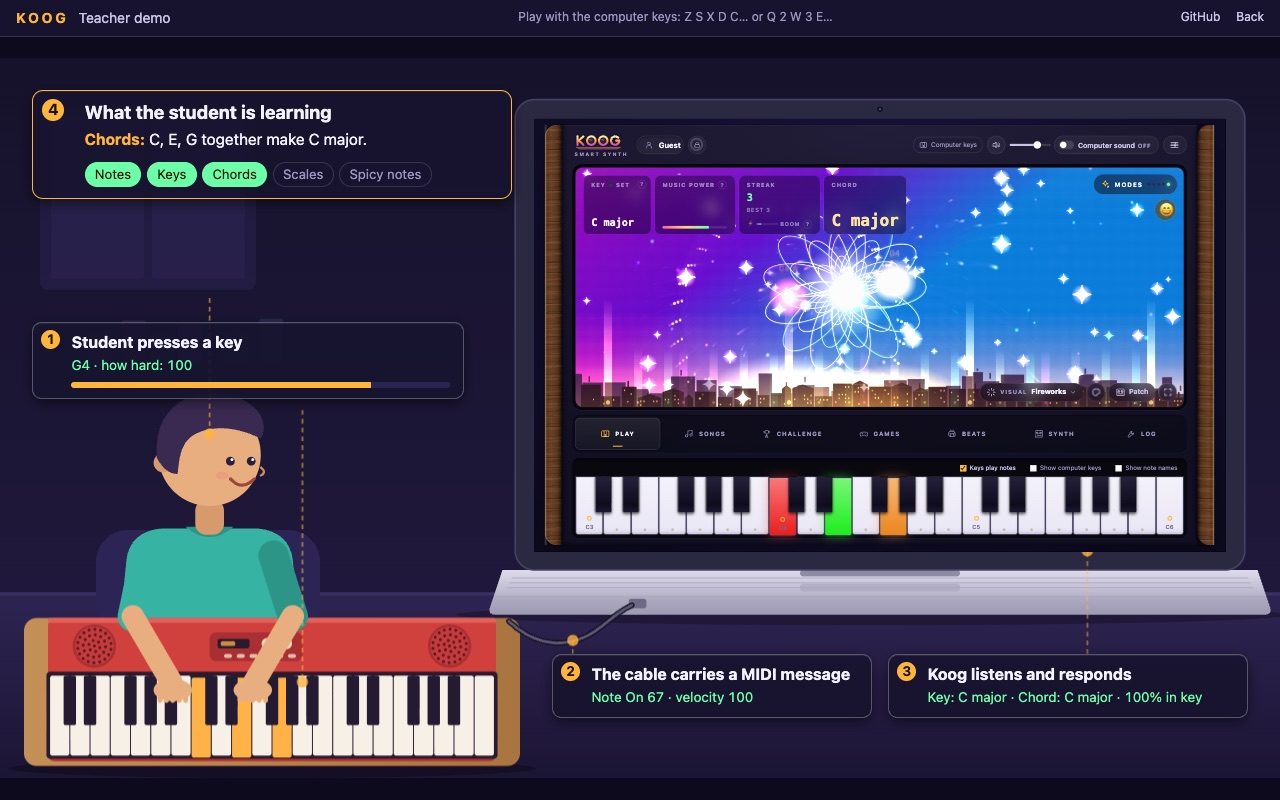
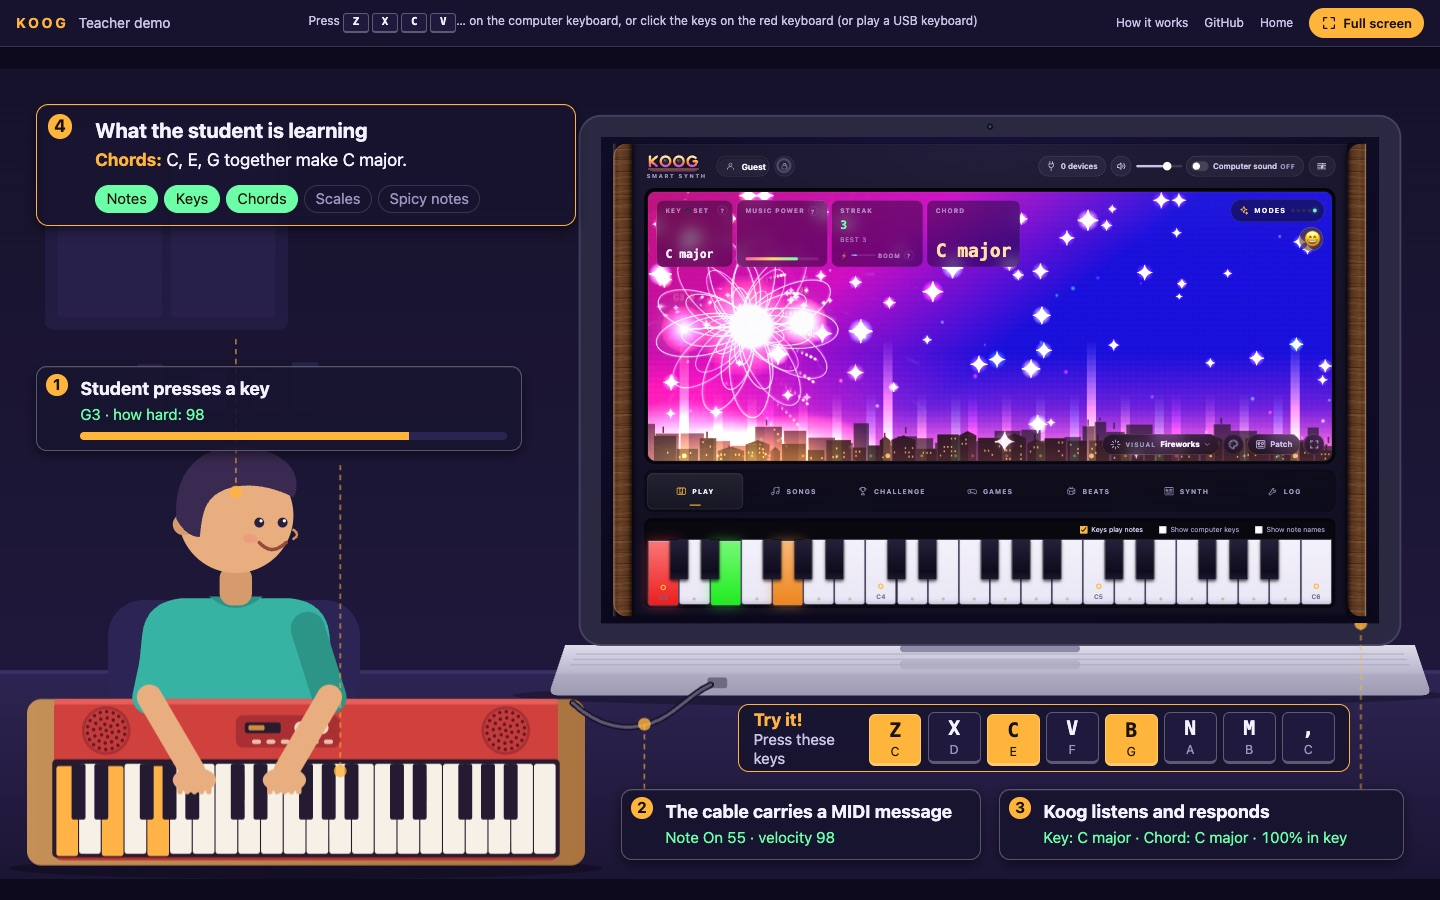
Teacher demo: clickable drawn keyboard, "press these keys" strip, start card with full screen
- Clicking (or sliding across) the white and black keys on the drawn keyboard
  plays them in the live Koog (bridge accepts koog:play). The student's hands
  and the overlay let clicks through.
- A "Try it! Press these keys" strip under the laptop shows Z X C V B N M , as
  C D E F G A B C, and lights each key cap while it sounds.
- A start card explains the three ways in (computer keys, clicking the drawing,
  reading the labels) with Start full screen / Start in this window; the click
  also turns on sound. The top bar has a Full screen button and How it works.
- Landing cards now have clear buttons: Start playing / Open the teacher demo.

Claude-Session: https://claude.ai/code/session_01VAs8VNy4sBx3Y33LLJLrLR

diff --git a/src/teacher/Teacher.tsx b/src/teacher/Teacher.tsx
@@ -2,6 +2,7 @@ import { useCallback, useEffect, useMemo, useRef, useState } from 'react'
 import { Stage, SCREEN, CABLE_D, ANCHORS } from './Stage'
 import { GITHUB_URL, isWebDemo } from '../web/webDemo'
 import { PC_NAMES } from '../music/theory'
+import { Icon } from '../ui/Icon'
 
 type Lit = 'in' | 'out' | 'tonic'
 interface LastNote { note: number; name: string; velocity: number }
@@ -16,10 +17,15 @@ const reduced = typeof matchMedia !== 'undefined' && matchMedia('(prefers-reduce
 // Where each callout card sits (viewBox units) and which edge point its leader line starts from.
 const CARDS = {
   1: { x: 40, y: 330, w: 540 },
-  2: { x: 690, y: 745, w: 400 },
-  3: { x: 1110, y: 745, w: 450 },
+  2: { x: 690, y: 800, w: 400 },
+  3: { x: 1110, y: 800, w: 450 },
   4: { x: 40, y: 40, w: 600 },
 } as const
+// The "press these keys" strip under the laptop: the bottom letter row plays C D E F G A B C (octave 3).
+const STRIP = { x: 820, y: 706, w: 680, h: 76 }
+const CAPS: [string, string, number][] = [['Z', 'C', 48], ['X', 'D', 50], ['C', 'E', 52], ['V', 'F', 53], ['B', 'G', 55], ['N', 'A', 57], ['M', 'B', 59], [',', 'C', 60]]
+
+const isFull = () => !!document.fullscreenElement
 
 export function Teacher() {
   const [held, setHeld] = useState<ReadonlySet<number>>(new Set())
@@ -29,7 +35,8 @@ export function Teacher() {
   const [seen, setSeen] = useState<ReadonlySet<Concept>>(new Set())
   const [dots, setDots] = useState<number[]>([])
   const [pulse, setPulse] = useState(false)
-  const [sound, setSound] = useState(false)
+  const [intro, setIntro] = useState(true)
+  const [full, setFull] = useState(isFull)
   const [u, setU] = useState(0.6) // px per viewBox unit
   const wrap = useRef<HTMLDivElement>(null)
   const frame = useRef<HTMLIFrameElement>(null)
@@ -38,6 +45,20 @@ export function Teacher() {
   const lastJ = useRef<Lit | null>(null)
 
   const see = useCallback((c: Concept) => setSeen((s) => (s.has(c) ? s : new Set(s).add(c))), [])
+
+  useEffect(() => {
+    const on = () => setFull(isFull())
+    document.addEventListener('fullscreenchange', on)
+    return () => document.removeEventListener('fullscreenchange', on)
+  }, [])
+  const toFrame = (msg: unknown) => frame.current?.contentWindow?.postMessage(msg, location.origin)
+  const toggleFull = () => { if (isFull()) void document.exitFullscreen?.(); else void document.documentElement.requestFullscreen?.().catch(() => {}) }
+  const start = (fs: boolean) => {
+    setIntro(false)
+    toFrame({ type: 'koog:unlock' }) // this click counts as the "turn on sound" gesture
+    if (fs && !isFull()) void document.documentElement.requestFullscreen?.().catch(() => {})
+  }
+  const playKey = useCallback((note: number, on: boolean) => toFrame({ type: 'koog:play', note, on, velocity: 96 }), [])
 
   // contain-fit 16:9 stage
   useEffect(() => {
@@ -64,7 +85,6 @@ export function Teacher() {
       const d = e.data
       if (!d || typeof d.type !== 'string') return
       if (d.type === 'koog:note') {
-        setSound(true)
         setHeld((h) => { const n = new Set(h); if (d.on) n.add(d.note); else n.delete(d.note); return n })
         if (d.on) {
           setLast({ note: d.note, name: d.name, velocity: d.velocity })
@@ -125,23 +145,23 @@ export function Teacher() {
     <div className="t-page">
       <header className="t-bar">
         <div className="t-brand"><b>KOOG</b><span>Teacher demo</span></div>
-        <div className="t-hint">{isWebDemo()
-          ? 'Play with the computer keys: Z S X D C… or Q 2 W 3 E…'
-          : 'Play with a USB keyboard, or the computer keys: Z S X D C… or Q 2 W 3 E…'}</div>
+        <div className="t-hint">Press <kbd>Z</kbd> <kbd>X</kbd> <kbd>C</kbd> <kbd>V</kbd>… on the computer keyboard, or click the keys on the red keyboard{isWebDemo() ? '' : ' (or play a USB keyboard)'}</div>
         <nav className="t-links">
+          <button type="button" className="t-link" onClick={() => setIntro(true)}>How it works</button>
           <a href={GITHUB_URL} target="_blank" rel="noreferrer noopener">GitHub</a>
-          <a href="../">Back</a>
+          <a href="../">Home</a>
+          <button type="button" className="t-full" onClick={toggleFull}><Icon name={full ? 'close' : 'expand'} size={16} />{full ? 'Exit full screen' : 'Full screen'}</button>
         </nav>
       </header>
       <main className="t-main">
         <div className="t-fit">
           <div className="t-stage" ref={wrap} style={{ ['--u' as string]: `${u}px` }}
             onPointerDown={() => frame.current?.focus()}>
-            <Stage held={held} lit={lit}>
+            <Stage held={held} lit={lit} onKey={playKey}>
               <path id="koog-cable" d={CABLE_D} fill="none" stroke="none" />
               {lead(CARDS[1], 110, ANCHORS.keys)}
               {lead(CARDS[2], 110, ANCHORS.cable)}
-              {lead(CARDS[3], 110, { x: SCREEN.x + SCREEN.w * 0.8, y: SCREEN.y + SCREEN.h })}
+              {lead(CARDS[3], 110, { x: SCREEN.x + SCREEN.w - 20, y: SCREEN.y + SCREEN.h })}
               {lead(CARDS[4], 260, ANCHORS.student)}
               {dots.map((id) => (
                 <circle key={id} r="11" className="t-dot">
@@ -152,7 +172,10 @@ export function Teacher() {
             <iframe ref={frame} className="t-frame" title="Koog, live" src="../?embed&play" allow="autoplay; midi"
               style={{ left: px(SCREEN.x), top: py(SCREEN.y), width: FRAME_W, height: FRAME_H,
                 transform: `scale(${(SCREEN.w * u) / FRAME_W})` }} />
-            {!sound && <div className="t-sound" style={{ left: px(SCREEN.x), top: py(SCREEN.y + SCREEN.h - 70), width: px(SCREEN.w) }}>Click the laptop screen to turn on sound</div>}
+            <div className="t-keys" style={{ left: px(STRIP.x), top: py(STRIP.y), width: px(STRIP.w), height: py(STRIP.h) }}>
+              <p><b>Try it!</b> Press these keys</p>
+              <div className="t-caps">{CAPS.map(([k, n, note]) => <span key={k} className={held.has(note) ? 'on' : ''}><b>{k}</b><em>{n}</em></span>)}</div>
+            </div>
 
             <div className="t-card" style={{ left: px(CARDS[1].x), top: py(CARDS[1].y), width: px(CARDS[1].w) }}>
               <i>1</i><h3>Student presses a key</h3>
@@ -172,6 +195,24 @@ export function Teacher() {
               {lessons.length ? lessons.map((l) => <p key={l.h}><b>{l.h}:</b> {l.t}</p>) : <p className="idle">Press a few keys to start.</p>}
               <div className="t-chips">{CONCEPTS.map(([c, label]) => <span key={c} className={seen.has(c) ? 'on' : ''}>{label}</span>)}</div>
             </div>
+            {intro && (
+              <div className="t-intro" role="dialog" aria-label="How the teacher demo works">
+                <div className="t-intro-card">
+                  <h2>Teacher demo</h2>
+                  <p>A student plays a small keyboard plugged into a laptop. The laptop screen is the real Koog, running live.</p>
+                  <ol>
+                    <li><b>Press keys on the computer keyboard.</b> <kbd>Z</kbd> <kbd>X</kbd> <kbd>C</kbd> <kbd>V</kbd> <kbd>B</kbd> <kbd>N</kbd> <kbd>M</kbd> play C D E F G A B. Try <kbd>Z</kbd> <kbd>C</kbd> <kbd>B</kbd> together for a chord.</li>
+                    <li><b>Or click the white and black keys</b> on the red keyboard in the drawing.</li>
+                    <li><b>Watch the numbered labels.</b> They show what just happened, and what the student is learning.</li>
+                  </ol>
+                  <div className="t-intro-go">
+                    <button type="button" className="t-go" autoFocus onClick={() => start(true)}><Icon name="expand" size={18} /> Start full screen</button>
+                    <button type="button" className="t-go2" onClick={() => start(false)}>Start in this window</button>
+                  </div>
+                  <p className="t-intro-small">Best on a projector. Press Esc to leave full screen.</p>
+                </div>
+              </div>
+            )}
           </div>
         </div>
       </main>

diff --git a/src/teacher/teacher.css b/src/teacher/teacher.css
@@ -13,7 +13,6 @@ body { background: var(--k-bg); color: var(--k-ink); font: 14px/1.4 system-ui, -
 .t-fit { width: min(100cqw, 100cqh * 16 / 9); aspect-ratio: 16 / 9; }
 .t-stage { position: relative; width: 100%; height: 100%; font-size: calc(var(--u) * 20); }
 .t-frame { position: absolute; border: 0; transform-origin: 0 0; background: #000; }
-.t-sound { position: absolute; text-align: center; text-shadow: 0 1px 6px #000; color: var(--k-lcd); font-size: calc(var(--u) * 20); pointer-events: none; }
 .t-card { position: absolute; box-sizing: border-box; padding: .5em .8em .6em 2.4em; background: rgba(23, 19, 47, .92); border: 1px solid var(--k-line-strong); border-radius: .6em; box-shadow: var(--k-e-2); transition: border-color .3s, box-shadow .3s; }
 .t-card.hot { border-color: var(--k-accent); box-shadow: 0 0 .8em rgba(255, 180, 60, .35); }
 .t-card i { position: absolute; left: .6em; top: .5em; width: 1.4em; height: 1.4em; border-radius: 50%; background: var(--k-accent); color: #1a1200; font-style: normal; font-weight: 700; text-align: center; line-height: 1.4em; font-size: .85em; }
@@ -32,3 +31,34 @@ body { background: var(--k-bg); color: var(--k-ink); font: 14px/1.4 system-ui, -
 .t-lead-dot { fill: var(--k-accent); opacity: .8; }
 .t-dot { fill: var(--k-lcd); filter: drop-shadow(0 0 8px var(--k-lcd)); }
 @media (prefers-reduced-motion: reduce) { .t-card, .t-chips span, .t-bar-v span { transition: none; } }
+kbd { display: inline-block; min-width: 1.5em; padding: 0 .35em; border-radius: .3em; border: 1px solid var(--k-line-strong); border-bottom-width: 2px; background: var(--k-surface-2); color: var(--k-ink); font: 600 .9em/1.5 ui-monospace, monospace; text-align: center; }
+.t-hint { color: var(--k-ink-2); }
+.t-links { align-items: center; }
+.t-link { background: none; border: 0; padding: 0; color: var(--k-ink-2); font: inherit; font-size: var(--k-fs-sm); cursor: pointer; }
+.t-link:hover { color: var(--k-accent); }
+.t-full { display: inline-flex; align-items: center; gap: 6px; height: 30px; padding: 0 12px; border-radius: 99px; border: 0; background: var(--k-accent); color: #1a1200; font: 600 13px system-ui, sans-serif; cursor: pointer; }
+.t-stage svg .stage-keys.play { pointer-events: auto; }
+/* "press these keys" strip under the laptop */
+.t-keys { position: absolute; box-sizing: border-box; display: flex; align-items: center; gap: .8em; padding: 0 .8em; background: rgba(23, 19, 47, .92); border: 1px solid var(--k-accent); border-radius: .6em; }
+.t-keys p { margin: 0; flex: 0 0 auto; width: 6.6em; font-size: .85em; line-height: 1.2; color: var(--k-ink-2); }
+.t-keys p b { display: block; color: var(--k-accent); font-size: 1.15em; }
+.t-caps { flex: 1; display: flex; gap: .35em; justify-content: space-between; }
+.t-caps span { flex: 1; display: flex; flex-direction: column; align-items: center; padding: .2em 0 .15em; border-radius: .35em; background: var(--k-surface-2); border: 1px solid var(--k-line-strong); border-bottom-width: 3px; transition: background .08s, transform .08s; }
+.t-caps span b { font: 700 1.1em/1.2 ui-monospace, monospace; color: var(--k-ink); }
+.t-caps span em { font-style: normal; font-size: .7em; color: var(--k-ink-3); }
+.t-caps span.on { background: var(--k-accent); transform: translateY(2px); }
+.t-caps span.on b, .t-caps span.on em { color: #1a1200; }
+/* start card */
+.t-intro { position: absolute; inset: 0; display: grid; place-items: center; background: rgba(8, 6, 20, .72); }
+.t-intro-card { width: min(46em, 90%); box-sizing: border-box; padding: 1.4em 1.8em 1.2em; background: var(--k-surface-1); border: 1px solid var(--k-line-strong); border-radius: .9em; box-shadow: var(--k-e-3, 0 20px 60px rgba(0,0,0,.5)); font-size: 1.05em; }
+.t-intro-card h2 { margin: 0 0 .3em; font-size: 1.6em; }
+.t-intro-card > p { margin: 0 0 .8em; color: var(--k-ink-2); }
+.t-intro-card ol { margin: 0 0 1.1em; padding-left: 1.3em; display: grid; gap: .55em; }
+.t-intro-card li b { color: var(--k-ink); }
+.t-intro-card li { color: var(--k-ink-2); }
+.t-intro-go { display: flex; flex-wrap: wrap; gap: .7em; }
+.t-go, .t-go2 { display: inline-flex; align-items: center; gap: .45em; padding: .65em 1.3em; border-radius: 99px; font: 600 1em system-ui, sans-serif; cursor: pointer; }
+.t-go { border: 0; background: var(--k-accent); color: #1a1200; }
+.t-go2 { background: none; border: 1px solid var(--k-line-strong); color: var(--k-ink); }
+.t-intro-small { margin: .8em 0 0; font-size: .8em; color: var(--k-ink-3); }
+@media (prefers-reduced-motion: reduce) { .t-caps span { transition: none; } }

diff --git a/src/teacher/Stage.tsx b/src/teacher/Stage.tsx
@@ -1,4 +1,4 @@
-import type { ReactNode } from 'react'
+import { useRef, type ReactNode } from 'react'
 import './stage.css'
 
 export const LOW = 48
@@ -64,15 +64,24 @@ function Speaker({ cx, cy }: { cx: number; cy: number }) {
   )
 }
 
-export function Stage(props: { held: ReadonlySet<number>; lit?: 'in' | 'out' | 'tonic' | null; children?: ReactNode }) {
+export function Stage(props: { held: ReadonlySet<number>; lit?: 'in' | 'out' | 'tonic' | null; onKey?: (note: number, on: boolean) => void; children?: ReactNode }) {
   const pal = COLORS[props.lit ?? 'in']
+  // clickable keys: press a key, slide across keys, let go anywhere
+  const down = useRef<number | null>(null)
+  const noteAt = (e: React.PointerEvent) => { const n = Number((e.target as Element).getAttribute('data-note')); return Number.isFinite(n) && n > 0 ? n : null }
+  const go = (n: number | null) => { const was = down.current; if (was === n) return; if (was != null) props.onKey?.(was, false); down.current = n; if (n != null) props.onKey?.(n, true) }
+  const keyHandlers = props.onKey ? {
+    onPointerDown: (e: React.PointerEvent) => { const n = noteAt(e); if (n == null) return; e.preventDefault(); e.stopPropagation(); (e.currentTarget as Element).releasePointerCapture?.(e.pointerId); go(n) },
+    onPointerOver: (e: React.PointerEvent) => { if (down.current != null && e.buttons) go(noteAt(e)) },
+    onPointerUp: () => go(null), onPointerLeave: () => go(null), onPointerCancel: () => go(null),
+  } : {}
   const keyEl = (k: Key) => {
     const on = props.held.has(k.note)
     const fill = on ? (k.black ? pal.b : pal.w) : k.black ? '#241b33' : '#f6f0e6'
     return k.black ? (
-      <rect key={k.note} className={'stage-key' + (on ? ' on' : '')} x={k.x} y={KEYS.y} width={BW} height={BH} rx={2.5} fill={fill} />
+      <rect key={k.note} data-note={k.note} className={'stage-key' + (on ? ' on' : '')} x={k.x} y={KEYS.y} width={BW} height={BH} rx={2.5} fill={fill} />
     ) : (
-      <rect key={k.note} className={'stage-key' + (on ? ' on' : '')} x={k.x + 0.6} y={KEYS.y} width={KW - 1.2} height={KEYS.h} rx={3} fill={fill} />
+      <rect key={k.note} data-note={k.note} className={'stage-key' + (on ? ' on' : '')} x={k.x + 0.6} y={KEYS.y} width={KW - 1.2} height={KEYS.h} rx={3} fill={fill} />
     )
   }
   const bx = SCREEN.x - 24, by = SCREEN.y - 24, bw = SCREEN.w + 48, bh = SCREEN.h + 48
@@ -152,14 +161,17 @@ export function Stage(props: { held: ReadonlySet<number>; lit?: 'in' | 'out' | '
       <circle cx="358" cy="732" r="2" fill="#a92f33" />
       {[280, 296, 312, 328, 344, 360].map((x) => <rect key={x} x={x} y="745" width="10" height="5" rx="2.5" fill="#f3d7c0" opacity={0.85} />)}
       <rect x={KEYS.x - 4} y={KEYS.y - 5} width={KEYS.w + 8} height={KEYS.h + 9} rx="5" fill="#2a1a2e" />
-      <g>{KEYLIST.filter((k) => !k.black).map(keyEl)}</g>
-      <g>{KEYLIST.filter((k) => k.black).map(keyEl)}</g>
+      <g className={props.onKey ? 'stage-keys play' : 'stage-keys'} {...keyHandlers}>
+        {KEYLIST.filter((k) => !k.black).map(keyEl)}
+        {KEYLIST.filter((k) => k.black).map(keyEl)}
+      </g>
 
       {/* USB cable */}
       <path d={CABLE_D} fill="none" stroke="#14101f" strokeWidth="7" strokeLinecap="round" />
       <path d={CABLE_D} fill="none" stroke="#5b5878" strokeWidth="3.5" strokeLinecap="round" />
 
-      {/* arms and hands (over keyboard) */}
+      {/* arms and hands (over keyboard); clicks pass through to the keys */}
+      <g pointerEvents="none">
       <path d="M182 622 L166 698" stroke="#37b3a4" strokeWidth="38" strokeLinecap="round" fill="none" />
       <path d="M166 698 L214 780" stroke="#e8ae80" strokeWidth="28" strokeLinecap="round" fill="none" />
       <path d="M342 622 L366 698" stroke="#2d9488" strokeWidth="38" strokeLinecap="round" fill="none" />
@@ -168,8 +180,9 @@ export function Stage(props: { held: ReadonlySet<number>; lit?: 'in' | 'out' | '
       <ellipse cx="316" cy="790" rx="24" ry="14" fill="#e8ae80" />
       {[-16, -8, 0, 8, 16].map((d) => <rect key={d} x={216 + d - 3} y={794} width={6} height={12} rx={3} fill="#e8ae80" />)}
       {[-16, -8, 0, 8, 16].map((d) => <rect key={d + 99} x={316 + d - 3} y={794} width={6} height={12} rx={3} fill="#e8ae80" />)}
+      </g>
 
-      {props.children}
+      <g pointerEvents="none">{props.children}</g>
     </svg>
   )
 }

diff --git a/src/web/demoBridge.ts b/src/web/demoBridge.ts
@@ -1,8 +1,10 @@
 // Embedded Koog (?embed) <-> teacher demo page. Posts live notes and harmony state to the parent window,
-// and re-dispatches computer-key events the parent forwards (musical typing listens on window).
+// and takes commands from the parent: forwarded computer keys (musical typing listens on window),
+// notes from the drawn keyboard (koog:play), and 'turn on sound' (koog:unlock).
 import { onNote } from '../music/notes'
 import { useHarmonyStore, judge } from '../music/harmonyStore'
 import { PC_NAMES, SCALE_LABEL } from '../music/theory'
+import { playLocal, unlockAudio } from '../music/localNotes'
 
 const post = (msg: unknown) => { try { window.parent.postMessage(msg, location.origin) } catch { /* ignore */ } }
 
@@ -37,7 +39,11 @@ function schedule() {
 function onMessage(e: MessageEvent) {
   if (e.origin !== location.origin || e.source !== window.parent) return
   const d = e.data
-  if (!d || d.type !== 'koog:key' || (d.kind !== 'keydown' && d.kind !== 'keyup')) return
+  if (!d) return
+  // a click on the drawn keyboard plays a note, like clicking Koog's own keys
+  if (d.type === 'koog:play' && Number.isInteger(d.note) && d.note >= 21 && d.note <= 108) { playLocal(d.note, Math.min(127, Math.max(1, Number(d.velocity) || 96)), !!d.on); return }
+  if (d.type === 'koog:unlock') { void unlockAudio(); return }
+  if (d.type !== 'koog:key' || (d.kind !== 'keydown' && d.kind !== 'keyup')) return
   window.dispatchEvent(new KeyboardEvent(d.kind, { code: String(d.code), key: String(d.key ?? ''), repeat: !!d.repeat, bubbles: true }))
 }
 

diff --git a/src/web/Landing.tsx b/src/web/Landing.tsx
@@ -34,12 +34,15 @@ export function Landing() {
           <a className="ld-card" href="./?play">
             <Icon name="keys" size={28} />
             <h2>Play Koog in your browser</h2>
-            <p>Computer keyboard only.</p>
+            <p>Play with the computer keyboard (Z X C V…) or click the keys on screen.</p>
+            <span className="ld-go">Start playing →</span>
           </a>
           <a className="ld-card" href="./teacher/">
             <Icon name="user" size={28} />
             <h2>Teacher demo</h2>
-            <p>An illustrated view of a student at a keyboard, with live labels showing what Koog does and what the student is learning.</p>
+            <p>For a projector: a drawing of a student at a keyboard and a laptop running Koog live, with labels that explain what Koog does and what the student is learning.</p>
+            <span className="ld-go">Open the teacher demo →</span>
+            <em className="ld-go-note">Then press <b>Start full screen</b>.</em>
           </a>
         </section>
       ) : (

diff --git a/src/web/landing.css b/src/web/landing.css
@@ -11,6 +11,9 @@ body { font: 15px/1.5 system-ui, -apple-system, 'Segoe UI', sans-serif; }
 .ld-card .k-ic { color: var(--k-accent); }
 .ld-card h2 { margin: 0; font-size: var(--k-fs-lg); }
 .ld-card p { margin: 0; color: var(--k-ink-2); font-size: var(--k-fs-md); }
+.ld-go { margin-top: auto; align-self: flex-start; padding: 8px 16px; border-radius: 99px; background: var(--k-accent); color: #1a1200; font-weight: 600; font-size: var(--k-fs-md); }
+.ld-go-note { font-style: normal; font-size: var(--k-fs-sm); color: var(--k-ink-3); }
+.ld-go-note b { color: var(--k-ink-2); }
 .ld-gate { background: var(--k-surface-1); border: 1px solid var(--k-line); border-radius: var(--k-r-lg); padding: var(--k-s-5); max-width: 420px; width: 100%; margin: 0 auto; }
 .ld-gate label { display: flex; align-items: center; gap: var(--k-s-2); font-weight: 600; margin-bottom: var(--k-s-3); }
 .ld-row { display: flex; gap: var(--k-s-2); }

diff --git a/src/teacher/stage.css b/src/teacher/stage.css
@@ -1,3 +1,5 @@
 .stage-key { transition: fill 80ms linear, transform 80ms ease-out; }
 .stage-key.on { transform: translateY(2.5px); }
 @media (prefers-reduced-motion: reduce) { .stage-key { transition: none; } }
+.stage-keys.play .stage-key { cursor: pointer; touch-action: none; }
+.stage-keys.play .stage-key:not(.on):hover { filter: brightness(.93); }
